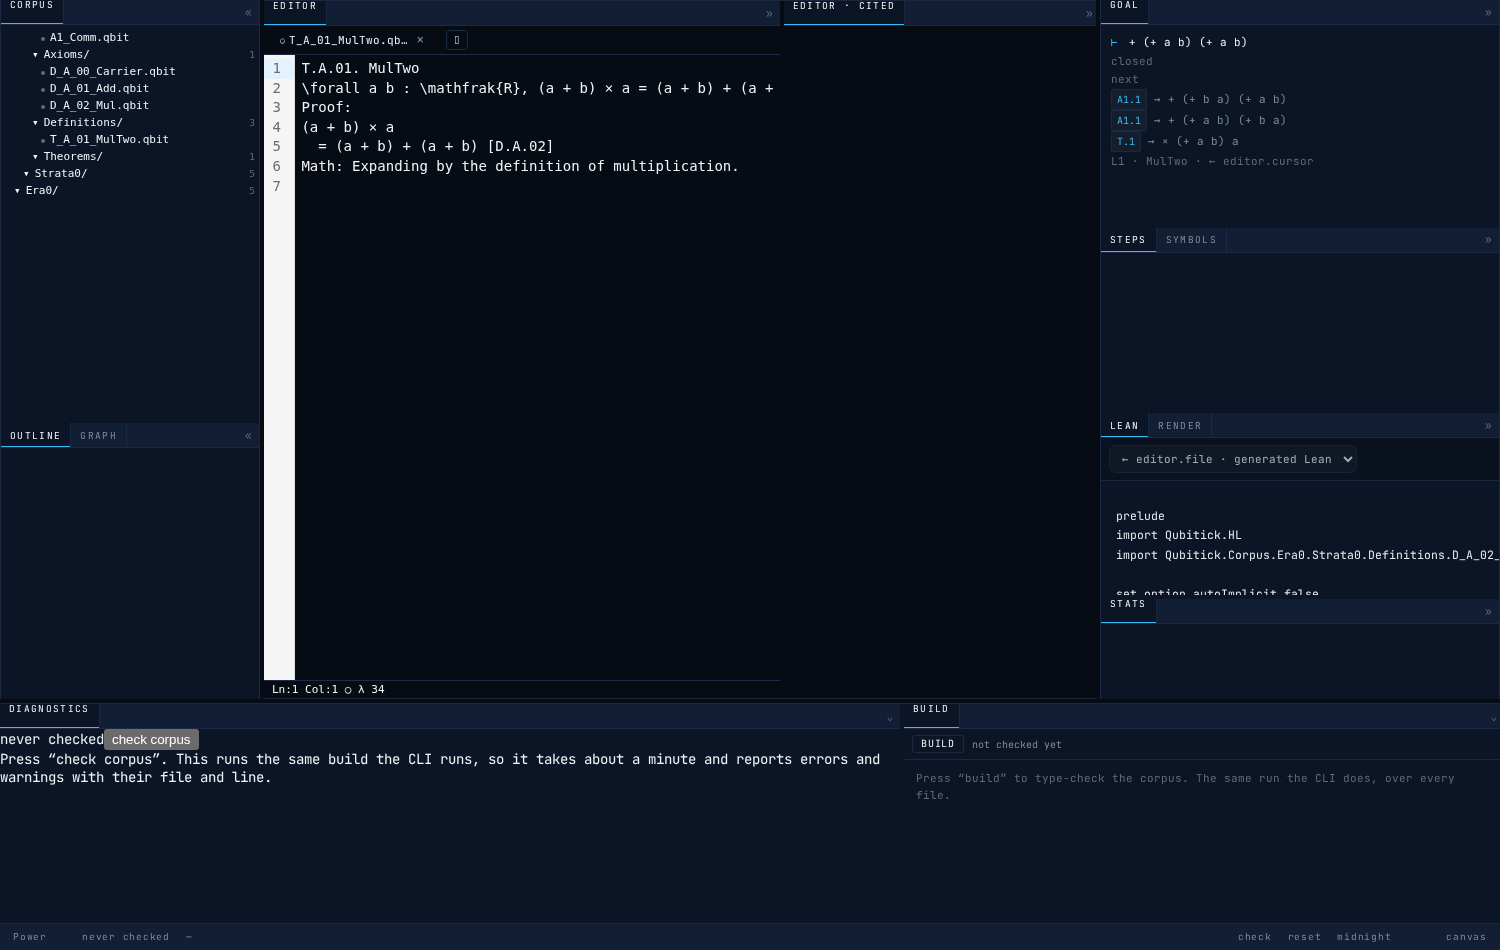
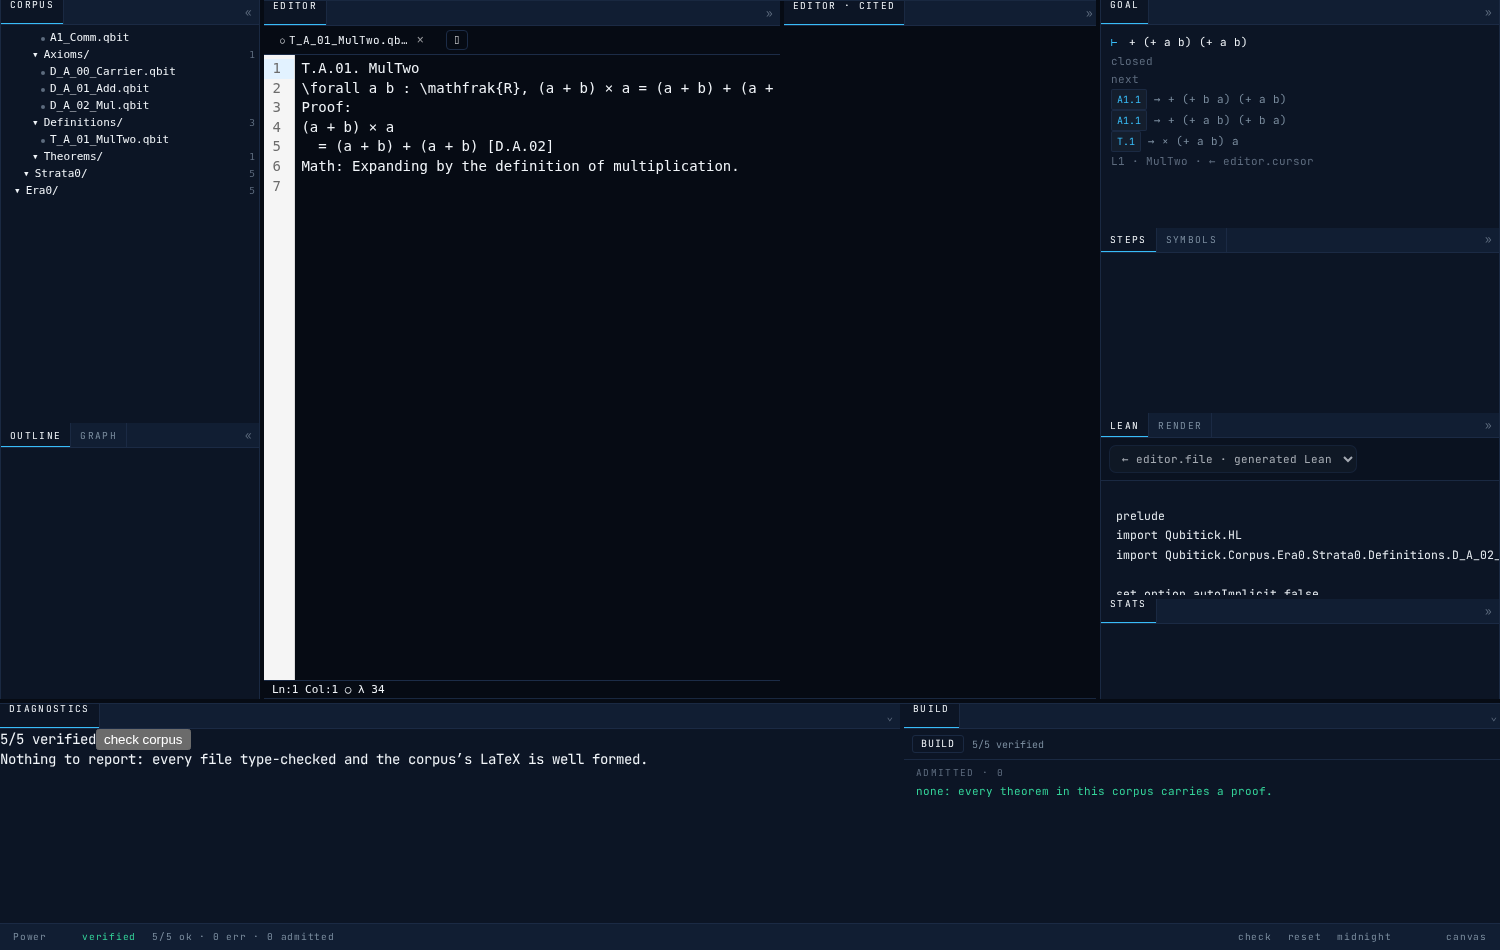
dock: the screenshots, and a layout per corpus (A4)
`docs/layouts/` carries every preset in two themes — `minimal`, `standard`, `power` ×
`midnight`, `paper` — and `tools/shots-layouts.mjs` is what takes them, so the set can be
regenerated instead of drifting from the code. Each shot clears the stored layout first (a
previous run must not decide what this one captures), runs a real corpus check (a screenshot
of four panels saying "never checked" says where the boxes are and nothing else), opens a
theorem BEFORE choosing the preset (Minimal and Power rail or shrink the tree, and a railed
tree has no rows to click), and prints the md5 of each file — two themes that produce the
same bytes are one theme captured twice.

`tools/verify-project-switch.mjs` is the other half of "survives reload and project switch":
project A's arrangement is stored under A, project B does NOT inherit it, and coming back to A
restores A's. Four checks, and it skips with exit 2 on a server that has fewer than two
projects rather than pretending.

Three panels were painting placeholders or nothing, found by driving the presets:

* **`symbols` was a canvas-only kind.** The module existed and the engine host could not name
  it, so the Symbols panel mounted "unknown pane kind: symbols". Registered, and the shell
  wires the editor's file into it (`ctx.fileText` is forwarded now — a panel that needs a
  file's text had no way to ask for it).
* **the Diagnostics panel read `ctx.check()` once, at mount.** It went on saying "never
[…]

diff --git a/web-next/js/dock/app.js b/web-next/js/dock/app.js
@@ -114,8 +114,32 @@ export async function bootDock({ root, preset }) {
     if (symbols) corpusData.symbols = symbols;
   }
 
+  /* THE TEXT THE PANELS ASK FOR, fetched once per path. `symbols` answers "which maths is in
+     this file", and it needs the file's text to do it — a panel that draws an empty box over a
+     file the app has open is the failure this cache exists to prevent. */
+  const fileTexts = new Map();
+  function fileText(path) {
+    const key = String(path || '');
+    if (!key) return '';
+    if (fileTexts.has(key)) return fileTexts.get(key);
+    fileTexts.set(key, '');   // first ask is empty; the fetch fills it for the next paint
+    fetch('/api/file?path=' + encodeURIComponent(key))
+      .then((r) => (r.ok ? r.json() : null))
+      .then((j) => {
+        if (j && typeof j.content === 'string') {
+          fileTexts.set(key, j.content);
+          // tell the panes that asked: they subscribe to a buffer, so re-publishing reaches them
+          const symbols = ws.pane('symbols');
+          if (symbols && symbols.in && symbols.in.treeFile && symbols.in.treeFile.set) symbols.in.treeFile.set(key);
+        }
+      })
+      .catch(() => {});
+    return '';
+  }
+
   const services = {
     projects: () => projects.get(),
+    fileText,
     url: (name) => endpoints.url(name),
     data: () => corpusData,
     counts: () => ({ docks: DOCKS.length, panels: Object.keys(PANELS).length }),
@@ -190,6 +214,24 @@ export async function bootDock({ root, preset }) {
       flowsCheckBuild(ws);
       flowsChrome(ws);
       flowsData(ws);
+      /* THE PANELS THE SHARED FLOWS DO NOT REACH. `symbols` reads the editor's file (and its
+         buffer as a fallback) and no flow wires it, so in the docking shell it was an empty
+         panel; `steps` (`ir`) is wired by `flowsSelection` already. Wired here rather than in
+         the shared flow because the canvas host already fills these by name
+         (js/app/pane-host.js::bindPorts), and a second delivery there would be a wire nothing
+         can remove. */
+      const editor = ws.pane('editor');
+      const symbols = ws.pane('symbols');
+      if (editor && symbols) {
+        if (editor.out && editor.out.cursor && symbols.in && symbols.in.file) {
+          ws.wire(editor.out.cursor, symbols.in.file, {
+            map: (c) => (c && c.path ? c.path : ''),
+          });
+        }
+        if (editor.out && editor.out.buffer && symbols.in && symbols.in.buffer) {
+          ws.wire(editor.out.buffer, symbols.in.buffer);
+        }
+      }
     } catch (err) {
       console.error('[dock] wiring failed:', err);
     }
@@ -207,9 +249,6 @@ export async function bootDock({ root, preset }) {
   } catch (err) {
     console.warn('[dock] corpus data:', err.message);
   }
-
-  /* the diag pane's own "check corpus" button reaches the same service the strip does */
-  bus.on && bus.on('ui:build', () => { buildService.run(); });
 
   /* ---------------- status, palette, keys ---------------- */
   const idx = await themeIndex().catch(() => null);

diff --git a/web-next/js/dock/status.js b/web-next/js/dock/status.js
@@ -55,8 +55,14 @@ export function createBuildService({ fetch: doFetch, path = '/api/build', bus } 
       state = { busy: false, report: null, error: err.message || String(err), at: Date.now(), took: Math.round(performance.now() - t0) };
     }
     publish();
+    /* NOT `build:settled`. That event is the shared wiring's "somebody else finished a build,
+       refresh what you show" (js/defaults/wiring/_flows.js), and its handler asks the
+       Diagnostics panel to RERUN — which is this function. Emitting it here made one press of
+       "check" start a check, finish it, start another, finish it… each one a full corpus build,
+       and the strip sat on "checking…" forever while the report it already had went stale.
+       `dock:build` is the notification; whoever wants to re-run asks for it explicitly. */
     if (bus) {
-      try { bus.emit('build:settled', state.report); } catch { /* no bus, no event */ }
+      try { bus.emit('dock:build', state.report); } catch { /* no bus, no event */ }
     }
     return state.report;
   }

diff --git a/web-next/js/panes/registry.js b/web-next/js/panes/registry.js
@@ -24,6 +24,7 @@ import renderPane from './render.js';
 import outputPane from './output.js';
 import diagPane from './diag.js';
 import buildPane from './build.js';
+import symbolsPane from './symbols.js';
 import slatePane from './slate.js';
 import symbolAddPane from './symbol-add.js';
 import settingsThemePane from './settings-theme.js';
@@ -118,6 +119,11 @@ export function createPaneRegistry() {
        where; this says whether it built and what it takes on faith, which are different
        questions with different answers (a corpus with one admitted theorem builds clean). */
     registerPane(buildPane);
+
+    /* symbols: in { treeFile, selection, file, buffer }, out {}, call {} — the maths a file uses,
+       one chip per glyph. Registered here because the docking shell puts it in the right dock;
+       the canvas has its own table for the same module. */
+    registerPane(symbolsPane);
 
     // graph: in { highlight, graphData }, out { selection }, call { resetCamera } (M4.26)
     registerPane(graphPane);

diff --git a/web-next/js/panes/diag.js b/web-next/js/panes/diag.js
@@ -152,14 +152,24 @@ export default {
       }
     }
 
+    /* THE HOST'S CHECK IS A SUBSCRIPTION, not a value read once at mount. `ctx.check()` answers
+       what the last run said; a panel that only calls it while mounting keeps saying "never
+       checked" for every check that finishes afterwards — which is what the docking shell's
+       Diagnostics tab did while the status strip beside it counted 5/5 verified. */
+    let offBuild = null;
+
     return {
       mount(host, p) {
         el = document.createElement('div');
         el.className = 'diag';
         host.appendChild(el);
+        if (ctx.onBuild && typeof ctx.onBuild === 'function') {
+          offBuild = ctx.onBuild(() => paint(p));
+        }
         paint(p);
       },
       unmount() {
+        if (offBuild) { try { offBuild(); } catch { /* gone */ } offBuild = null; }
         if (el && el.parentNode) el.parentNode.removeChild(el);
         el = null;
       },

diff --git a/web-next/js/panes/instances.js b/web-next/js/panes/instances.js
@@ -119,6 +119,9 @@ export function createInstanceManager({ ws, registry, governor, scope, services 
          `fn(state)` whenever a report lands, and returns an unsubscribe. */
       onBuild: (fn) => (services.onBuild ? services.onBuild(fn) : () => {}),
       openFile: (path) => { if (services.openFile) services.openFile(path); },
+      /* the text of a corpus file the app may already have fetched: `js/panes/symbols.js`
+         asks for it, and a host that cannot answer shows an empty panel over a corpus it has. */
+      fileText: (path) => (services.fileText ? services.fileText(path) : ''),
       endpoint: (name) => (services.endpoint ? services.endpoint(name) : null),
     };
 

diff --git a/web-next/js/panes/define.js b/web-next/js/panes/define.js
@@ -24,6 +24,10 @@ const VALID_KINDS = new Set([
      "what is wrong and where"; this answers "did it build, and what is still taken on faith", and
      the docking shell's Build panel is the one that asks. */
   'build',
+  /* the corpus's own SYMBOL TABLE (js/panes/symbols.js): which maths a file uses, one chip per
+     glyph. It was a canvas-only kind — the module existed and the page could not name it — so the
+     docking shell's Symbols panel mounted a placeholder that said "unknown pane kind". */
+  'symbols',
 ]);
 
 const VALID_PORT_TYPES = new Set(['value', 'event', 'call']);
